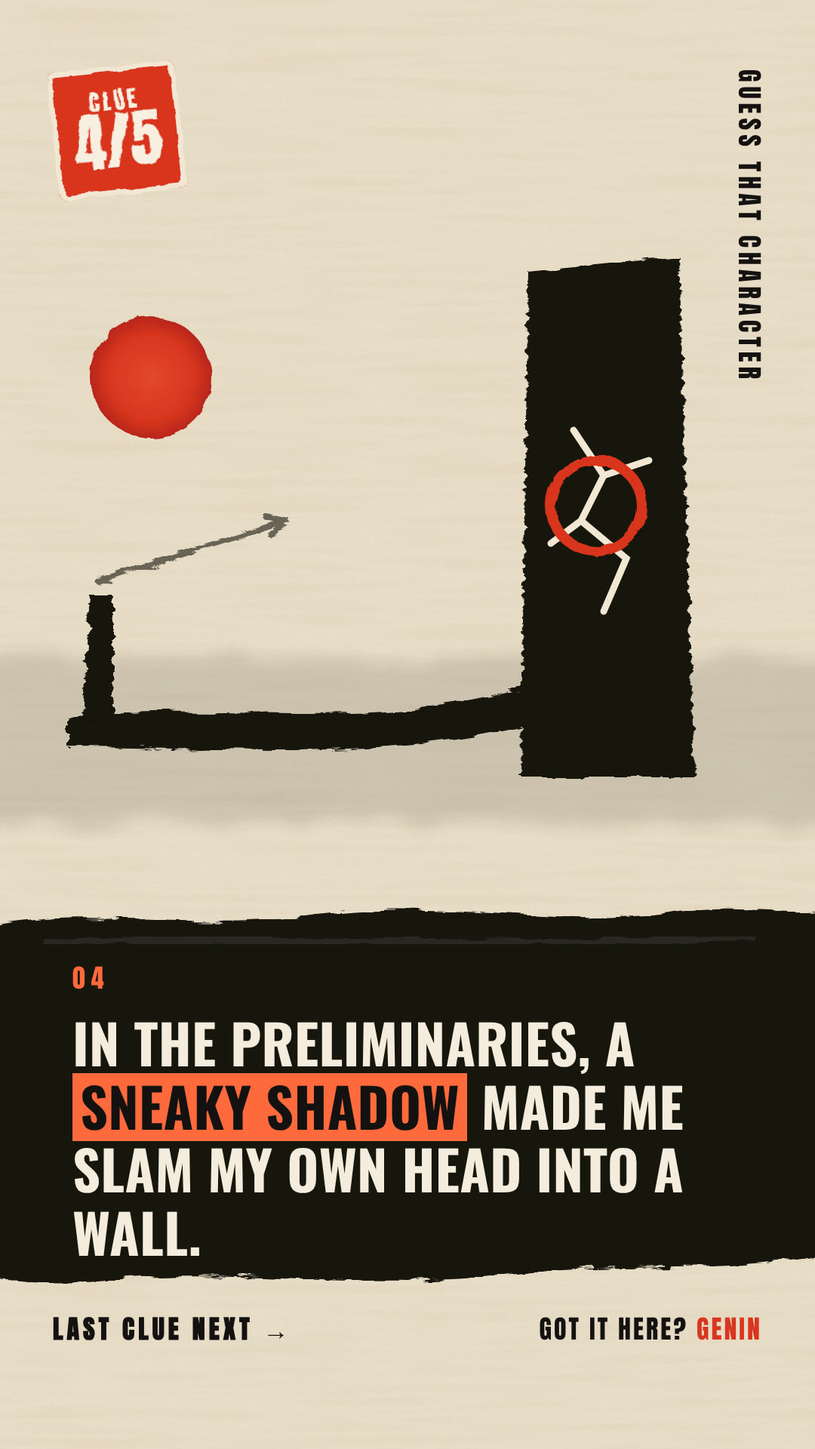
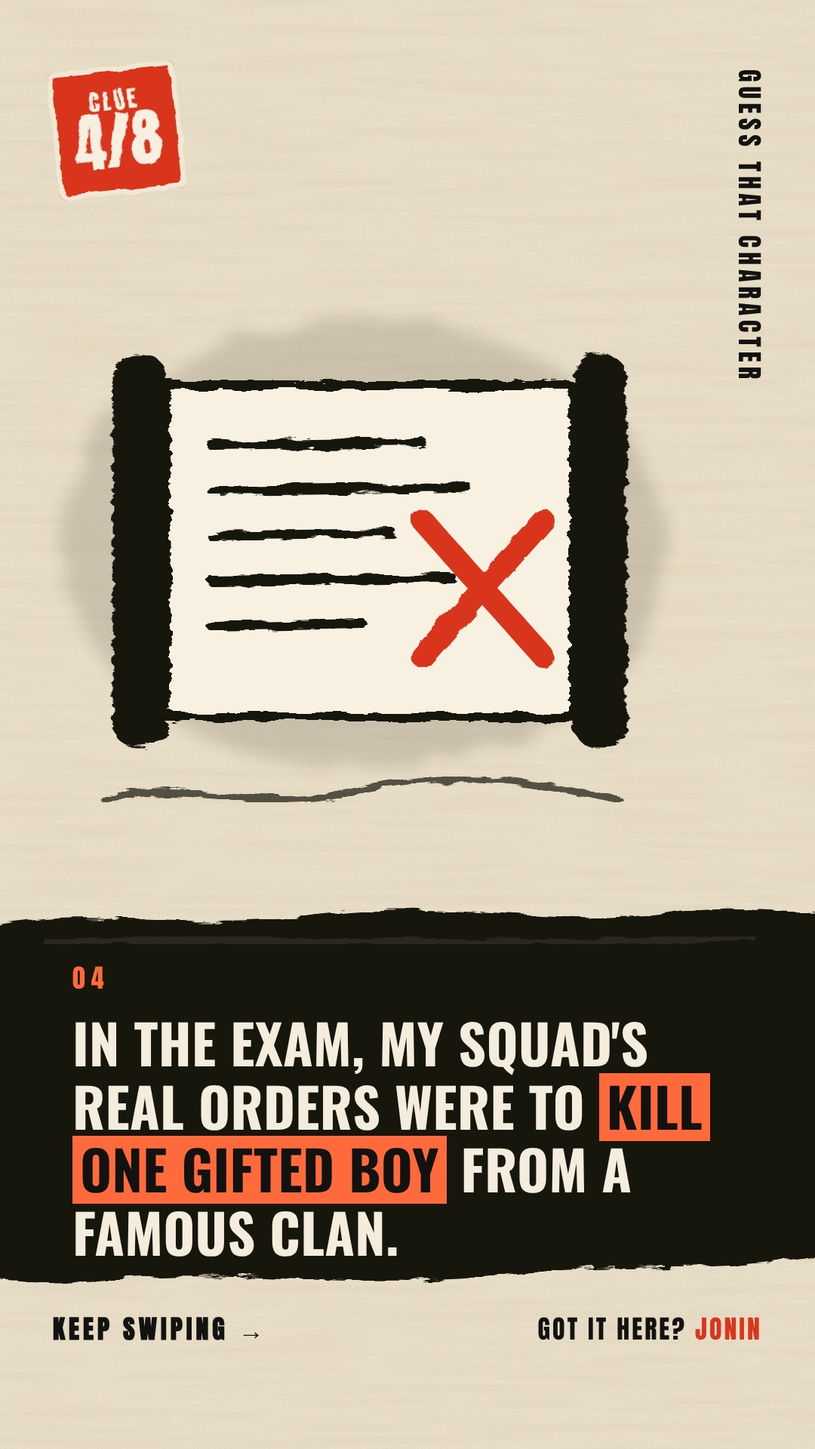
Switch back to photo carousels, now 10 slides (cover + 8 clues + ending); Kin Tsuchi rebuilt as 8-clue carousel
Owner request: videos underperformed. Cover sticker now reads '8 clues'.

Claude-Session: https://claude.ai/code/session_01WXUcxLTVJLpcg5QifEBXba

diff --git a/templates/example_naruto_clues_8.html b/templates/example_naruto_clues_8.html
@@ -1,0 +1,253 @@
+<!-- 2. CLUE 1: two crossed swords ringing -->
+<section class="slide ink">
+  <!--PAPER-->
+  <div class="sun" style="left:330px;top:210px;width:360px;height:360px;background:radial-gradient(#e2492b,#d8361f 70%,#b8261a)"></div>
+  <div class="stamp"><b>CLUE</b><i>1/8</i></div>
+  <div class="label">GUESS THAT CHARACTER</div>
+  <svg class="art" viewBox="0 0 1080 900">
+
+    <ellipse cx="500" cy="440" rx="400" ry="300" fill="#141210" opacity=".12" filter="url(#wash)"/>
+    <g filter="url(#brush)" stroke-linecap="round" fill="none" stroke="#141210">
+      <path d="M150 760 C330 560 560 330 820 110" stroke-width="22"/>
+      <path d="M850 760 C670 560 440 330 180 110" stroke-width="22"/>
+      <path d="M150 760 L95 815 M850 760 L905 815" stroke-width="40"/>
+      <path d="M190 700 L240 750 M810 700 L760 750" stroke-width="18"/>
+    </g>
+    <g fill="none" stroke="#d8361f" stroke-width="12" stroke-linecap="round" filter="url(#roughen)">
+      <path d="M440 300 C420 330 420 360 440 390"/><path d="M400 270 C365 320 365 370 400 420"/>
+      <path d="M560 300 C580 330 580 360 560 390"/><path d="M600 270 C635 320 635 370 600 420"/>
+    </g>
+    <g fill="#141210" filter="url(#brush)"><path d="M500 300 l12 34 l36 0 l-28 22 l10 34 l-30 -20 l-30 20 l10 -34 l-28 -22 l36 0z"/></g>
+  </svg>
+  <!--BAND-->
+  <div class="cluebox"><div class="num">01 — HARDEST</div>
+    <div class="clue">My first name is the sound of <em>clashing swords</em>; my last is a tiny bone in your ear.</div></div>
+  <div class="swipe">KEEP SWIPING →</div>
+  <div class="lvl">GOT IT HERE? <span>KAGE LEVEL</span></div>
+</section>
+
+<!-- 3. CLUE 2: bells hanging on strings -->
+<section class="slide ink">
+  <!--PAPER-->
+  
+  <div class="stamp"><b>CLUE</b><i>2/8</i></div>
+  <div class="label">GUESS THAT CHARACTER</div>
+  <svg class="art" viewBox="0 0 1080 900">
+
+    <ellipse cx="480" cy="460" rx="400" ry="310" fill="#141210" opacity=".13" filter="url(#wash)"/>
+    <g filter="url(#brush)" fill="none" stroke="#141210" stroke-linecap="round">
+      <path d="M60 90 C300 140 600 60 900 110" stroke-width="12"/>
+      <path d="M220 115 L230 420" stroke-width="5"/><path d="M480 100 L470 560" stroke-width="5"/><path d="M730 95 L740 360" stroke-width="5"/>
+    </g>
+    <g filter="url(#brush)" fill="#141210">
+      <path d="M180 420 C180 360 280 360 280 420 L292 480 L168 480Z"/>
+      <path d="M415 560 C415 490 525 490 525 560 L540 630 L400 630Z"/>
+      <path d="M695 360 C695 300 785 300 785 360 L796 412 L684 412Z"/>
+    </g>
+    <g fill="#d8361f" filter="url(#roughen)"><circle cx="230" cy="500" r="18"/><circle cx="470" cy="652" r="20"/><circle cx="740" cy="432" r="16"/></g>
+    <g fill="none" stroke="#141210" stroke-width="8" stroke-linecap="round" filter="url(#brush)" opacity=".6">
+      <path d="M120 430 C100 460 100 490 120 520"/><path d="M90 410 C60 460 60 500 90 550"/>
+      <path d="M340 430 C360 460 360 490 340 520"/><path d="M600 560 C620 600 620 640 600 680"/>
+      <path d="M850 360 C870 390 870 420 850 450"/><path d="M880 340 C910 390 910 440 880 490"/>
+    </g>
+    <g stroke="#141210" stroke-width="8" stroke-linecap="round" filter="url(#brush)">
+      <path d="M120 780 L420 720"/><path d="M500 800 L860 740"/><path d="M200 840 L560 800" opacity=".6"/>
+    </g>
+    <g fill="#d8361f" filter="url(#roughen)"><circle cx="420" cy="720" r="9"/><circle cx="860" cy="740" r="9"/></g>
+  </svg>
+  <!--BAND-->
+  <div class="cluebox"><div class="num">02</div>
+    <div class="clue">I tie <em>bells to strings and needles</em> so you never know which sound is real.</div></div>
+  <div class="swipe">KEEP SWIPING →</div>
+  <div class="lvl">GOT IT HERE? <span>SANNIN</span></div>
+</section>
+
+<!-- 4. CLUE 3: old grave under a rising mist -->
+<section class="slide ink">
+  <!--PAPER-->
+  <div class="sun" style="left:560px;top:160px;width:300px;height:300px;background:radial-gradient(#e2492b,#d8361f 70%,#b8261a)"></div>
+  <div class="stamp"><b>CLUE</b><i>3/8</i></div>
+  <div class="label">GUESS THAT CHARACTER</div>
+  <svg class="art" viewBox="0 0 1080 900">
+
+    <rect x="-40" y="560" width="1160" height="240" fill="#141210" opacity=".14" filter="url(#wash)"/>
+    <g fill="#141210" filter="url(#brush)">
+      <path d="M300 640 L320 260 C330 220 470 220 480 260 L500 640Z"/>
+      <path d="M220 640 L580 640 L600 690 L200 690Z"/>
+      <path d="M660 660 L672 470 C680 450 760 450 768 470 L780 660Z" opacity=".55"/>
+    </g>
+    <g fill="#f1e7d2"><rect x="380" y="300" width="40" height="260" rx="6"/></g>
+    <g fill="none" stroke="#141210" stroke-linecap="round" filter="url(#brush)">
+      <path d="M380 200 C340 160 420 120 380 70" stroke-width="12" opacity=".5"/>
+      <path d="M440 210 C480 160 400 120 450 60" stroke-width="10" opacity=".4"/>
+      <path d="M40 720 C200 690 360 740 520 710 S820 690 1000 720" stroke-width="12"/>
+    </g>
+    <g fill="#d8361f" filter="url(#roughen)">
+      <path d="M560 700 l14 -40 l14 40 l-14 14z"/><path d="M180 710 l12 -34 l12 34 l-12 12z"/>
+    </g>
+  </svg>
+  <!--BAND-->
+  <div class="cluebox"><div class="num">03</div>
+    <div class="clue">My own master killed me so my body could be a <em>sacrifice to raise a dead Hokage</em>.</div></div>
+  <div class="swipe">KEEP SWIPING →</div>
+  <div class="lvl">GOT IT HERE? <span>ANBU</span></div>
+</section>
+
+<!-- 5. CLUE 4: secret order scroll marked in red -->
+<section class="slide ink">
+  <!--PAPER-->
+  
+  <div class="stamp"><b>CLUE</b><i>4/8</i></div>
+  <div class="label">GUESS THAT CHARACTER</div>
+  <svg class="art" viewBox="0 0 1080 900">
+
+    <ellipse cx="480" cy="450" rx="400" ry="300" fill="#141210" opacity=".13" filter="url(#wash)"/>
+    <g filter="url(#brush)" stroke="#141210" stroke-linecap="round" stroke-linejoin="round">
+      <rect x="150" y="200" width="70" height="520" rx="30" fill="#141210"/>
+      <rect x="760" y="200" width="70" height="520" rx="30" fill="#141210"/>
+      <path d="M220 240 L760 240 L760 680 L220 680 Z" fill="#f8f1e2" stroke-width="12"/>
+      <path d="M280 320 L560 316 M280 380 L620 376 M280 440 L520 436 M280 500 L600 496 M280 560 L480 556" stroke-width="12" fill="none"/>
+    </g>
+    <g stroke="#d8361f" stroke-width="30" stroke-linecap="round" filter="url(#roughen)">
+      <path d="M560 420 L720 600"/><path d="M720 420 L560 600"/>
+    </g>
+    <g fill="none" stroke="#141210" stroke-width="10" stroke-linecap="round" filter="url(#brush)" opacity=".7">
+      <path d="M140 790 C260 760 340 810 460 780 S680 760 820 790"/>
+    </g>
+  </svg>
+  <!--BAND-->
+  <div class="cluebox"><div class="num">04</div>
+    <div class="clue">In the exam, my squad's real orders were to <em>kill one gifted boy</em> from a famous clan.</div></div>
+  <div class="swipe">KEEP SWIPING →</div>
+  <div class="lvl">GOT IT HERE? <span>JONIN</span></div>
+</section>
+
+<!-- 6. CLUE 5: a moth flying into an empty lantern -->
+<section class="slide ink">
+  <!--PAPER-->
+  <div class="sun" style="left:600px;top:140px;width:280px;height:280px;background:radial-gradient(#e2492b,#d8361f 70%,#b8261a)"></div>
+  <div class="stamp"><b>CLUE</b><i>5/8</i></div>
+  <div class="label">GUESS THAT CHARACTER</div>
+  <svg class="art" viewBox="0 0 1080 900">
+
+    <ellipse cx="460" cy="470" rx="380" ry="300" fill="#141210" opacity=".12" filter="url(#wash)"/>
+    <g filter="url(#brush)" fill="none" stroke="#141210" stroke-linecap="round" stroke-linejoin="round">
+      <path d="M380 150 L380 230" stroke-width="12"/>
+      <path d="M300 240 L460 240" stroke-width="26"/>
+      <path d="M300 240 C220 330 220 560 300 650 L460 650 C540 560 540 330 460 240" stroke-width="18" fill="#f8f1e2"/>
+      <path d="M260 330 L500 330 M248 440 L512 440 M260 550 L500 550" stroke-width="7" opacity=".7"/>
+      <path d="M290 650 L470 650" stroke-width="30"/>
+    </g>
+    <g fill="#d8361f" filter="url(#roughen)">
+      <path d="M380 400 C350 440 350 480 380 520 C410 480 410 440 380 400Z" opacity=".9"/>
+    </g>
+    <g transform="translate(680 520)" filter="url(#brush)" fill="#141210">
+      <path d="M0 0 C-60 -70 -130 -40 -110 10 C-90 50 -40 40 0 0Z"/>
+      <path d="M0 0 C-50 50 -100 60 -110 30 C-90 20 -40 10 0 0Z" opacity=".7"/>
+      <path d="M0 0 C60 -70 130 -40 110 10 C90 50 40 40 0 0Z"/>
+      <path d="M0 0 C50 50 100 60 110 30 C90 20 40 10 0 0Z" opacity=".7"/>
+      <ellipse cx="0" cy="10" rx="10" ry="34"/>
+    </g>
+    <path d="M600 560 C560 600 520 580 470 540" stroke="#141210" stroke-width="6" fill="none" stroke-dasharray="16 14" opacity=".6" filter="url(#brush)"/>
+    <g stroke="#141210" stroke-width="9" stroke-linecap="round" filter="url(#brush)" opacity=".6"><path d="M120 790 L820 780"/></g>
+  </svg>
+  <!--BAND-->
+  <div class="cluebox"><div class="num">05</div>
+    <div class="clue">A blonde girl <em>took over my body</em>, so my own teammates had to knock me out.</div></div>
+  <div class="swipe">KEEP SWIPING →</div>
+  <div class="lvl">GOT IT HERE? <span>CHUNIN</span></div>
+</section>
+
+<!-- 7. CLUE 6: a long shadow reaching a cracked wall -->
+<section class="slide ink">
+  <!--PAPER-->
+  
+  <div class="stamp"><b>CLUE</b><i>6/8</i></div>
+  <div class="label">GUESS THAT CHARACTER</div>
+  <svg class="art" viewBox="0 0 1080 900">
+
+    <rect x="-40" y="600" width="1160" height="220" fill="#141210" opacity=".12" filter="url(#wash)"/>
+    <g fill="#141210" filter="url(#brush)">
+      <path d="M700 90 L900 70 L920 760 L690 760Z"/>
+      <path d="M90 680 C300 660 500 700 700 640 L700 690 C500 740 300 720 90 720Z"/>
+      <path d="M110 680 L120 520 L150 520 L150 690Z"/>
+    </g>
+    <g fill="none" stroke="#f1e7d2" stroke-width="9" stroke-linecap="round">
+      <path d="M760 300 L800 360 L770 420 L830 470 L800 540"/><path d="M800 360 L860 340"/><path d="M770 420 L730 450"/>
+    </g>
+    <circle cx="790" cy="400" r="60" fill="none" stroke="#d8361f" stroke-width="14" filter="url(#roughen)"/>
+    <circle cx="200" cy="230" r="80" fill="url(#vsun)" filter="url(#roughen)"/>
+    <g fill="none" stroke="#141210" stroke-width="8" stroke-linecap="round" filter="url(#brush)" opacity=".6">
+      <path d="M130 500 L380 420"/><path d="M380 420 L360 440 M380 420 L352 414"/>
+    </g>
+  </svg>
+  <!--BAND-->
+  <div class="cluebox"><div class="num">06</div>
+    <div class="clue">In the preliminaries, a <em>sneaky shadow</em> made me slam my own head into a wall.</div></div>
+  <div class="swipe">KEEP SWIPING →</div>
+  <div class="lvl">GOT IT HERE? <span>GENIN</span></div>
+</section>
+
+<!-- 8. CLUE 7: a hand mirror and a comb -->
+<section class="slide ink">
+  <!--PAPER-->
+  
+  <div class="stamp"><b>CLUE</b><i>7/8</i></div>
+  <div class="label">GUESS THAT CHARACTER</div>
+  <svg class="art" viewBox="0 0 1080 900">
+
+    <ellipse cx="480" cy="460" rx="390" ry="300" fill="#141210" opacity=".12" filter="url(#wash)"/>
+    <g transform="rotate(-18 420 400)" filter="url(#brush)">
+      <ellipse cx="420" cy="330" rx="190" ry="210" fill="#141210"/>
+      <ellipse cx="420" cy="330" rx="150" ry="170" fill="#f8f1e2"/>
+      <rect x="390" y="530" width="60" height="260" rx="20" fill="#141210"/>
+    </g>
+    <path d="M330 250 C360 210 400 200 430 210" stroke="#141210" stroke-width="10" fill="none" opacity=".4" stroke-linecap="round" filter="url(#brush)"/>
+    <circle cx="430" cy="380" r="70" fill="url(#vsun)" filter="url(#roughen)"/>
+    <g transform="translate(720 600) rotate(20)" filter="url(#brush)" fill="#141210">
+      <rect x="-150" y="-30" width="300" height="50" rx="14"/>
+      <g stroke="#141210" stroke-width="10" stroke-linecap="round">
+        <path d="M-130 20 V100 M-100 20 V100 M-70 20 V100 M-40 20 V100 M-10 20 V100 M20 20 V100 M50 20 V100 M80 20 V100 M110 20 V100 M135 20 V100"/>
+      </g>
+    </g>
+    <g fill="none" stroke="#d8361f" stroke-width="10" stroke-linecap="round" filter="url(#roughen)">
+      <path d="M620 300 C660 280 700 300 730 270"/><path d="M640 350 C690 330 730 350 770 320"/>
+    </g>
+  </svg>
+  <!--BAND-->
+  <div class="cluebox"><div class="num">07</div>
+    <div class="clue">I sneered at a girl for spending more time on <em>her hair</em> than on her training.</div></div>
+  <div class="swipe">LAST CLUE NEXT →</div>
+  <div class="lvl">GOT IT HERE? <span>ACADEMY</span></div>
+</section>
+
+<!-- 9. CLUE 8: a long braid of hair cut by a blade -->
+<section class="slide ink">
+  <!--PAPER-->
+  <div class="sun" style="left:150px;top:180px;width:320px;height:320px;background:radial-gradient(#e2492b,#d8361f 70%,#b8261a)"></div>
+  <div class="stamp"><b>CLUE</b><i>8/8</i></div>
+  <div class="label">GUESS THAT CHARACTER</div>
+  <svg class="art" viewBox="0 0 1080 900">
+
+    <ellipse cx="520" cy="460" rx="400" ry="300" fill="#141210" opacity=".12" filter="url(#wash)"/>
+    <g filter="url(#brush)" fill="none" stroke="#141210" stroke-linecap="round">
+      <path d="M120 140 C260 220 300 320 400 420" stroke-width="40"/>
+      <path d="M130 170 C250 240 300 330 390 430" stroke-width="10" stroke="#f1e7d2" opacity=".5"/>
+      <path d="M520 470 C580 560 680 580 760 700 C800 760 860 790 920 800" stroke-width="40"/>
+      <path d="M520 470 C560 540 640 600 700 640 M540 480 C620 520 700 540 760 600" stroke-width="10"/>
+    </g>
+    <g fill="none" stroke="#141210" stroke-width="6" stroke-linecap="round" filter="url(#brush)">
+      <path d="M410 430 L380 500"/><path d="M420 440 L410 520"/><path d="M430 432 L450 510"/><path d="M500 460 L470 400"/><path d="M510 470 L520 400"/>
+    </g>
+    <g transform="translate(460 300) rotate(-40)" filter="url(#brush)">
+      <path d="M-40 0 L150 -22 L220 0 L150 22 Z" fill="#141210"/>
+      <rect x="-120" y="-12" width="80" height="24" fill="#141210"/>
+    </g>
+    <path d="M330 470 L560 420" stroke="#d8361f" stroke-width="12" stroke-linecap="round" filter="url(#roughen)"/>
+  </svg>
+  <!--BAND-->
+  <div class="cluebox"><div class="num">08 — EASIEST</div>
+    <div class="clue">I yanked a rival by her long hair until she <em>cut it off herself</em> to get free.</div></div>
+  <div class="swipe">THE REVEAL →</div>
+  <div class="lvl">GOT IT HERE? <span>CIVILIAN</span></div>
+</section>

diff --git a/templates/base.html b/templates/base.html
@@ -38,7 +38,7 @@ body{background:#000;font-family:Inter,sans-serif}
     <div class="stroke" style="font-weight:900;font-size:118px;line-height:.92;letter-spacing:-4px;margin-top:26px;transform:rotate(-3deg)">GUESS THAT</div>
     <div class="stroke" style="font-weight:900;font-size:128px;line-height:1;letter-spacing:-4px;color:#ff8a1f;transform:rotate(-3deg);margin-top:4px">CHARACTER</div>
   </div>
-  <div style="position:absolute;left:0;right:0;top:1360px;text-align:center"><div style="display:inline-block;background:#e8541e;color:#fff;font-weight:900;font-size:40px;padding:16px 30px;border-radius:16px;border:4px solid #111;box-shadow:8px 8px 0 #111;transform:rotate(2deg)">5 clues · hardest first 🧠</div></div>
+  <div style="position:absolute;left:0;right:0;top:1360px;text-align:center"><div style="display:inline-block;background:#e8541e;color:#fff;font-weight:900;font-size:40px;padding:16px 30px;border-radius:16px;border:4px solid #111;box-shadow:8px 8px 0 #111;transform:rotate(2deg)">8 clues · hardest first 🧠</div></div>
   <div class="stroke" style="position:absolute;left:0;right:0;top:1520px;text-align:center;font-weight:900;font-size:52px;line-height:1.15">only REAL fans get it<br>on clue 1 👀</div>
   <div class="swipe" style="top:1720px;left:0;right:0;text-align:center">swipe <b>→</b></div>
 </section>

diff --git a/WORKFLOW.md b/WORKFLOW.md
@@ -1,33 +1,35 @@
 # Daily Naruto "Shinobi Quiz" TikTok posts
 
-> **FORMAT (since 2026-11-16): narrated VIDEO posts, not photo carousels.** The owner approved the video format on 2026-11-15 ("Draft 6"). Each quiz is still built from the same Ink & Washi slides, then turned into a ~55 s 1080x1920 MP4 with a bright female quiz-host voice, captions, countdowns and music by `templates/video/`. Do not change the voice, script template, caption style or pacing without the owner's approval.
+> **FORMAT (since 2026-11-16 evening): 10-slide PHOTO CAROUSELS.** The owner tried narrated videos on 2026-11-16, they performed badly, and he asked to switch back to picture posts with **10 slides total**: cover + **8 clue slides** + the "WHO WAS IT?" ending. Same Ink & Washi style, same cover and ending. The video pipeline in `templates/video/` is retired; do not use it.
 
-Each daily run makes **two** Naruto "Guess That Character" quiz videos and schedules them in Metricool
+Each daily run makes **two** Naruto "Guess That Character" 10-slide photo carousels and schedules them in Metricool
 for **11:50 AM** and **11:50 PM America/New_York** (10 minutes early, because TikTok takes ~10 min to process a carousel, so posts appear around 12:00 PM (noon) and 12:00 AM (midnight)) on TikTok account Naruto.quiz.hun (Metricool brand "Naruto Quiz Hun", blogId `8075815`). NEVER use blogId 7999182: that is the owner's separate One Piece account and must not be touched.
 
 ## Fixed pieces (never change these)
-- **Slide 1, the cover:** `slides/cover.jpg`. It's the owner's chosen Naruto cover image with the title overlaid (source art: `templates/cover_art.jpg`). Use this exact file every time; never re-render or redraw it.
-- **Slide 7, the ending:** the black "WHO WAS IT?" reveal slide with the red brush circle. `templates/build.py` produces it identically each run.
-- **Layout and style ("Ink & Washi"):** all CSS, SVG filters and the final slide live in `templates/build.py`; fonts (Anton, Oswald) are bundled in `templates/fonts/`. `templates/base.html` only holds the cover. The finished example to copy is `templates/example_naruto_clues.html`.
+- **Slide 1, the cover:** `slides/cover.jpg`. It's the owner's chosen Naruto cover image with the title overlaid (source art: `templates/cover_art.jpg`). Use this exact file every time; never re-render or redraw it. (On 2026-11-16 its sticker text was changed from "5 clues" to "8 clues · hardest first" for the 10-slide format; nothing else changed. The old file is `templates/cover_5clues_old.jpg`.)
+- **Slide 10, the ending:** the black "WHO WAS IT?" reveal slide with the red brush circle. `templates/build.py` produces it identically each run.
+- **Layout and style ("Ink & Washi"):** all CSS, SVG filters and the final slide live in `templates/build.py`; fonts (Anton, Oswald) are bundled in `templates/fonts/`. `templates/base.html` only holds the cover. The finished example to copy is `templates/example_naruto_clues_8.html` (8 clues; the older `example_naruto_clues.html` shows the 5-clue layout).
 - **This style must stay clearly different from the owner's One Piece account** (which uses colorful cartoon art, parchment clue cards, emoji rank badges and a yellow "?" ending). Never bring any of those elements in here.
 
 ## Steps for each run
 1. **Pick 2 characters** from Naruto / Naruto Shippuden (the original series; Boruto-only characters are out) that are NOT in `used.txt`.
    - Lean niche and hard: side characters and one-arc characters, not Team 7 or the most famous Hokage/Akatsuki leads.
    - Make the two posts different difficulty levels: one "B-RANK MISSION" (hard) and one "S-RANK MISSION" (extreme).
-2. **Write 5 clues per character,** ordered hardest to easiest.
-   - Clue 1 is obscure trivia; clue 5 is a near-giveaway (an epithet or iconic moment).
+2. **Write 8 clues per character,** ordered hardest to easiest.
+   - Clue 1 is obscure trivia; clue 8 is a near-giveaway (an epithet or iconic moment).
+   - Pick characters with enough documented trivia for 8 verifiable clues (one-scene extras usually don't have enough).
+   - Fetching naruto.fandom.com sometimes fails; MyAnimeList, ComicVine and TV Tropes character pages are good backup sources.
    - **Verify every clue with WebSearch** (Naruto wiki / Narutopedia on fandom) before using it. If a fact can't be verified, drop it.
    - Write in first person, 60–90 characters each, and wrap the key phrase in `<em>`.
    - Never use the character's name in a clue.
-3. **Write `clues_<name>.html`** with 5 `<section class="slide ink">` blocks, copying the structure of `templates/example_naruto_clues.html` exactly:
+3. **Write `clues_<name>.html`** with 8 `<section class="slide ink">` blocks, copying the structure of `templates/example_naruto_clues_8.html` exactly:
    - `<!--PAPER-->` placeholder first (build.py swaps in the washi paper texture)
    - optional `<div class="sun">` red circle placed behind the art (vary its size/position, or leave it out)
-   - red hanko stamp `<div class="stamp"><b>CLUE</b><i>N/5</i></div>` and the vertical `<div class="label">GUESS THAT CHARACTER</div>`
+   - red hanko stamp `<div class="stamp"><b>CLUE</b><i>N/8</i></div>` and the vertical `<div class="label">GUESS THAT CHARACTER</div>`
    - `<svg class="art" viewBox="0 0 1080 900">` illustration (keep the right ~120px clear for the vertical label)
-   - `<!--BAND-->` placeholder (build.py swaps in the black brush-stroke band), then `<div class="cluebox"><div class="num">01 — HARDEST</div><div class="clue">…</div></div>` (numbers: "01 — HARDEST", "02", "03", "04", "05 — EASIEST")
-   - level line `<div class="lvl">GOT IT HERE? <span>…</span></div>`: KAGE LEVEL / JONIN / CHUNIN / GENIN / ACADEMY
-   - swipe line: "KEEP SWIPING →" ×3, "LAST CLUE NEXT →", "THE REVEAL →"
+   - `<!--BAND-->` placeholder (build.py swaps in the black brush-stroke band), then `<div class="cluebox"><div class="num">01 — HARDEST</div><div class="clue">…</div></div>` (numbers: "01 — HARDEST", "02" … "07", "08 — EASIEST")
+   - level line `<div class="lvl">GOT IT HERE? <span>…</span></div>`: KAGE LEVEL / SANNIN / ANBU / JONIN / CHUNIN / GENIN / ACADEMY / CIVILIAN
+   - swipe line: "KEEP SWIPING →" ×6, "LAST CLUE NEXT →", "THE REVEAL →"
    - No emoji anywhere on clue slides.
 4. **ART RULE (strict).** Illustrations must be ORIGINAL drawings of generic objects, places, animals or ideas: a scroll, a forest at night, a bowl of noodles, a toad, a mountain village, a full moon, a stone bridge, a cargo ship, and so on.
    - **Style: Japanese sumi-ink.** Black ink (`#141210`) on cream paper, ONE accent color only (vermilion `#d8361f` / `#ff6a3d`). Bold silhouettes and brush strokes, soft gray ink washes. No gradients other than `#vsun`, no drop shadows, no other colors, no cartoon outlines-with-color-fill.
@@ -38,29 +40,25 @@ for **11:50 AM** and **11:50 PM America/New_York** (10 minutes early, because Ti
 5. **Render:**
    - `cd templates && python3 build.py ../work/clues_<name>.html ../work/<name>.html`
    - `python3 shoot.py ../work/<name>.html ../work/<name>`
-6. **Make the video** (after build.py made `work/<name>.html`; slides are the video's frames):
-   - Once per session: `sh templates/video/setup.sh` (pip deps + Kokoro voice model from GitHub releases; prints SETUP_OK).
-   - `nohup sh templates/video/make_video.sh <name> > work/<name>_video.log 2>&1 &` then poll the log (`sleep 60; tail -3 work/<name>_video.log`) until it prints `FIN` (about 3-4 min per video; Bash calls time out at 2 min, so never run it in the foreground). Output: `work/<name>_video/<name>.mp4`.
-   - What it does: hides the clue text/swipe line to make a "blank" version of each slide, generates the narration from `templates/video/make_script.py` (fixed hook, "Clue one!"... "Last clue!", the clue read aloud exactly as on the slide, a rank call-out after each clue: Kage / Jonin / Chunin / Genin / Academy, fixed outro), voices it with Kokoro `af_heart` at speed 1.15, renders: cover with soft white captions → per clue: blank slide, clue appears as it is read, 3-2-1 "LOCK IN YOUR GUESS" countdown, red caption sticker for the rank line → "WHO WAS IT?" outro; then mixes voice + SFX + generated koto/taiko music and loudness-normalizes to -14 LUFS.
-   - Clue text is read aloud, so write clues that read naturally (no emoji, no symbols the voice can't say).
-7. **Check:** make a side-by-side contact sheet of slides 2–7 and look at it. Look for:
+6. **Check:** make a contact sheet (5x2 grid) of all 10 slides and look at it. Look for:
    - text overflowing the black band or highlights cutting into neighbouring lines
    - elements cut off at the edges
    - the art running under the vertical label or the stamp
    - anything that depicts a character
 
-   Fix and re-render as needed. Also look at `work/<name>_video/check_20s.jpg` and confirm the video duration printed before FIN is 45-75 s.
-8. **Publish the video (auto-cleanup, owner's request):**
-   - NEVER commit .mp4 files to `main`. Videos go on the throwaway `media` branch, which is replaced on every publish, so old videos are cleared out automatically:
-     `sh templates/video/publish_media.sh <YYYY-MM-DD> <name1> [<name2>]` (prints the URLs).
-   - Publish all of the run's videos in ONE call (each call replaces the branch). This is safe because Metricool copies the video into its own storage (static.metricool.com) the moment a post is scheduled, so older videos are no longer needed.
-   - Confirm each `https://raw.githubusercontent.com/Mshamula1/naruto-quiz-slides/media/<YYYY-MM-DD>-<name>/<name>.mp4` returns HTTP 200 before scheduling, and after scheduling check the response's media is a static.metricool.com .mp4.
-9. **Schedule in Metricool** with `createScheduledPost` (blogId `8075815`):
+   Fix and re-render as needed.
+7. **Publish the images:**
+   - Convert slides 2–10 to JPEG (quality 92). TikTok's API doesn't accept PNG.
+   - Save them to `slides/<YYYY-MM-DD>-<name>/slide_2.jpg … slide_10.jpg`.
+   - Commit and push to `main`.
+   - Confirm each `https://raw.githubusercontent.com/Mshamula1/naruto-quiz-slides/main/slides/...` URL returns HTTP 200 before scheduling.
+8. **Schedule in Metricool** with `createScheduledPost` (blogId `8075815`):
    - **providers:** tiktok
    - **autoPublish:** true
    - **privacyOption:** PUBLIC_TO_EVERYONE
-   - **autoAddMusic:** false. The video already has its own narration and music (TikTok's auto-music only applies to photo posts). Do not set photoCoverIndex, videoThumbnailUrl or videoCoverMilliseconds.
-   - **media:** exactly one item, the raw.githubusercontent.com URL of that day's `<name>.mp4`.
+   - **photoCoverIndex:** 0
+   - **autoAddMusic:** true. REQUIRED on every post, so TikTok attaches a trending sound to the carousel; posts without it publish silent. The owner wants sound on every post. (The Metricool API can't pick a specific song for TikTok; only this random-music option is available.)
+   - **media**, in this order: `.../slides/cover.jpg`, then slide_2 … slide_10 of that character (10 items total)
    - **times:** 11:50 and 23:50 America/New_York that day (NOT 12:00/00:00; the 10-minute lead covers TikTok processing). Both slots belong to the same calendar day as the run.
      - If a slot is less than 10 minutes away or already past, skip it, and make only as many characters as there are open slots.
      - First call `getScheduledPosts` for that day with blogId `8075815` (only this brand); if a slot already has a TikTok post, don't add another.
@@ -68,21 +66,21 @@ for **11:50 AM** and **11:50 PM America/New_York** (10 minutes early, because Ti
    - **Caption: the Naruto account's OWN "mission briefing" voice.** It must NOT reuse the One Piece account's wording ("Guess That Character", "HARD MODE 💀", "swipe through all 5 clues", "I'll pin the answer later", "who should I do next?", "got it on clue 1 = genius", skull emojis). Always a LONG description, 1,000–1,800 characters (owner's standing request), no line breaks (the TikTok API strips them), ending with
      `#naruto #narutoshippuden #narutoquiz #animequiz #shinobi #animetiktok`.
      Write it as a ninja mission briefing. It must include, in your own fresh wording each day (vary the sentences; don't paste the same caption twice):
-     - the mission rank up front (and mention it's a video quiz: "watch to the end") ("📜 MISSION BRIEFING: B-RANK" / "📜 MISSION BRIEFING: S-RANK 🔥")
+     - the mission rank up front ("📜 MISSION BRIEFING: B-RANK" / "📜 MISSION BRIEFING: S-RANK 🔥")
      - a target teaser about the character type that gives nothing away (never names, villages, clans, teams or jutsu)
-     - "5 scrolls, hardest to easiest" (unroll / open every scroll)
+     - "8 scrolls, hardest to easiest" (unroll / open every scroll)
      - "drop your guess AND the scroll number that gave it away"
      - "answer gets pinned once the mission ends"
      - a no-googling line in ninja terms (e.g. "no peeking, no copy ninja tactics, no search engine jutsu")
-     - the rank brag ladder matching the slides: scroll 1 = Kage level, 2 = Jonin, 3 = Chunin, 4 = Genin, 5 = back to the Academy
+     - the rank brag ladder matching the slides: scroll 1 = Kage level, 2 = Sannin, 3 = ANBU, 4 = Jonin, 5 = Chunin, 6 = Genin, 7 = Academy, 8 = civilian
      - "tag your squad / your teammate who thinks they know every shinobi"
      - "which shinobi should be the next target?"
      - "Follow for a new mission every day at 12 PM and 12 AM ET."
      Use only these emojis, sparingly: 📜 🔥 🍥 🥷 🎯 🍃. Example of the voice (do not copy verbatim):
-     `📜 MISSION BRIEFING: S-RANK 🔥 Your target today is a face most fans forgot the second their arc ended, but they mattered more than you think. Intel has been split across 5 scrolls, hardest to easiest, so unroll every one before you lock in. Drop your guess AND the scroll number that gave it away in the comments 🎯 Answer gets pinned once the mission ends, so no edits after the reveal. Rules of engagement: no peeking, no copy ninja tactics, no search engine jutsu. Your rank depends on where you cracked it: scroll 1 = Kage level, scroll 2 = Jonin, scroll 3 = Chunin, scroll 4 = Genin, scroll 5 = straight back to the Academy 🥷 ...`
+     `📜 MISSION BRIEFING: S-RANK 🔥 Your target today is a face most fans forgot the second their arc ended, but they mattered more than you think. Intel has been split across 8 scrolls, hardest to easiest, so unroll every one before you lock in. Drop your guess AND the scroll number that gave it away in the comments 🎯 Answer gets pinned once the mission ends, so no edits after the reveal. Rules of engagement: no peeking, no copy ninja tactics, no search engine jutsu. Your rank depends on where you cracked it: scroll 1 = Kage level, scroll 2 = Sannin, scroll 3 = ANBU, scroll 4 = Jonin, scroll 5 = Chunin, scroll 6 = Genin, scroll 7 = Academy, scroll 8 = civilian, hang up the headband 🥷 ...`
    - **firstCommentText:** leave empty. Don't reveal the answer.
-10. **Record:**
+9. **Record:**
    - Append both names to `used.txt` with the date and scheduled time.
    - Add the answers to `answers.md` (date, time, character, clues), so the owner can pin them.
    - Commit and push.
-11. **Report** in one short message which characters were scheduled for which times and their answers.
+10. **Report** in one short message which characters were scheduled for which times and their answers.
